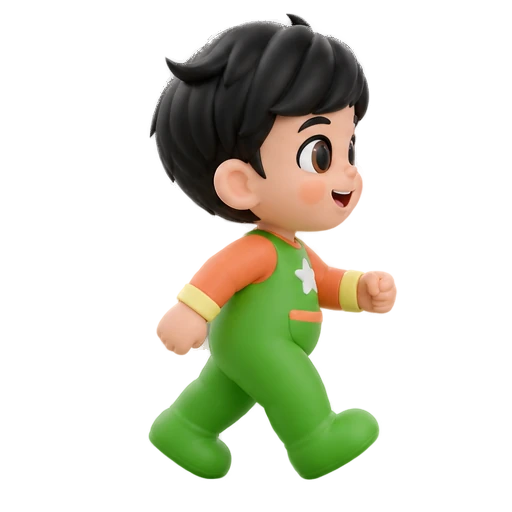
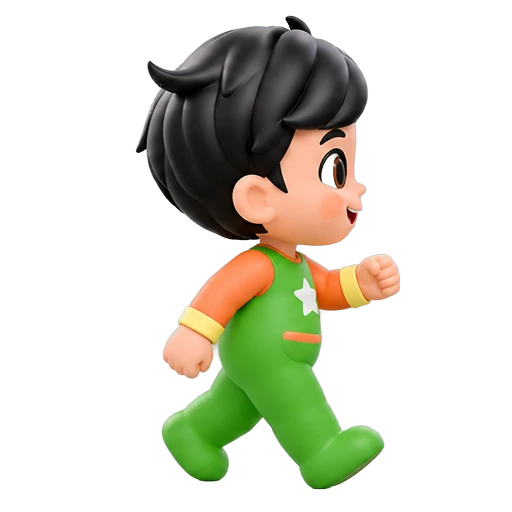
Render 3: regenerated walk cycle, counting three, idle sway, two-frame hand wash
- Walk cycle replaced from a clean side-view sheet; frames re-centred
  (head at x 256, feet on y 488) so it walks in place and loops 6 -> 1.
- New: explain-4-three (replaces the duplicate two-finger "peace"),
  idle sway-left / breathe-in / sway-right (clearer than before),
  routine wash-a + wash-b (a two-frame loop; the water drops are kept by
  keying them from the source).
- Sheets kept in sheets/, contact sheet and README updated,
  tools/cut-render3-fixes.py added.

Claude-Session: https://claude.ai/code/session_013wiJDRdH28m1FqwwMnvbtM

Changed region(s): [[0.25, 0.0312, 0.7812, 0.9688]]

diff --git a/tools/cut-render3-fixes.py b/tools/cut-render3-fixes.py
@@ -1,0 +1,20 @@
+# python3 cut2.py — cuts the two regenerated render-3 sheets (flat grey background)
+from PIL import Image
+from rembg import new_session, remove
+UP = "/root/.claude/uploads/bc6ee900-a5ff-58ec-8eec-4271124e511a/"
+OUT = "out2"
+import os; os.makedirs(OUT, exist_ok=True)
+JOBS = [
+    ("5ef42918", ["mo3-04-walk-1-1", "mo3-04-walk-2-2", "mo3-04-walk-3-3", "mo3-04-walk-4-4", "mo3-04-walk-5-5", "mo3-04-walk-6-6"]),
+    ("2a80ff60", ["mo3-03-explain-4-three", "mo3-02-idle-4-sway-left", "mo3-02-idle-6-sway-right", "mo3-08-routine-4-wash-a", "mo3-08-routine-7-wash-b", "mo3-02-idle-5-breathe-in"]),
+]
+s = new_session("isnet-general-use")
+for fid, names in JOBS:
+    src = Image.open(UP + fid + "-image.png").convert("RGB")
+    W, H = src.size; cw, ch = W // 3, H // 2
+    for i, base in enumerate(names):
+        cx, cy = (i % 3) * cw, (i // 3) * ch
+        cut = remove(src.crop((cx, cy, cx + cw, cy + ch)), session=s, alpha_matting=True, alpha_matting_foreground_threshold=240,
+                     alpha_matting_background_threshold=20, alpha_matting_erode_size=8, post_process_mask=True)
+        cut.save(f"{OUT}/{base}.png", optimize=True); cut.save(f"{OUT}/{base}.webp", quality=90, method=6)
+        print(base, cut.getbbox())

diff --git a/art/baby-mo-render3/README.md b/art/baby-mo-render3/README.md
@@ -14,17 +14,18 @@ Generated with ChatGPT on 21 Nov 2026 from three render-1 references (`www/baby-
 | # | Set | Poses |
 |---|---|---|
 | 01 | talk (lip-sync) | smile, a, o, e, u, m |
-| 02 | idle | eyes-open, eyes-half, eyes-closed, sway-1..3 |
-| 03 | explain | palm, one, two, peace, present, idea |
-| 04 | walk (side, facing right) | 1..6 |
+| 02 | idle | eyes-open, eyes-half, eyes-closed, sway-left, breathe-in, sway-right |
+| 03 | explain | palm, one, two, three, present, idea |
+| 04 | walk (side, facing right, loops 6 → 1; head centred at x 256, feet on y 488 so it walks in place) | 1..6 |
 | 05 | turn | front, three-quarter-right, side-right, back, side-left, three-quarter-left |
 | 06 | tablet (magenta #FF00FF screen) | look, show, tap, wow, laugh, hug |
 | 07 | phone & watch (magenta screens) | watch-look, watch-show, phone-look, phone-show, phone-up, phone-call |
-| 08 | routine | stretch, yawn, dua, wash, read, pillow |
+| 08 | routine | stretch, yawn, dua, wash-a, read, pillow, wash-b (wash-a ↔ wash-b loops) |
 | 09 | hook | peek-left, pop-up, whisper, shh, jump, skid |
 | 10 | end | salam, clap-open, clap-closed, star, wave-1, wave-2 |
 
 Screens are flat magenta so real app footage can be keyed onto them.
 
-Known gaps: no "three fingers" pose (03-3 and 03-4 are both two fingers); the idle sway (02-4..6) is very
-slight; walk frames are not a perfect cycle (use 4–6 fps, or tween); 08-4 keeps only one water drop.
+Regenerated on 21 Nov 2026 (`sheets/sheet-04-walk.jpg`, `sheets/sheet-11-fixes.jpg`, cut by
+`tools/cut-render3-fixes.py`, on a flat grey background): the walk cycle, counting three, a clearer idle
+sway left/right with a breathe-in frame, and a two-frame hand wash with its water drops kept.
